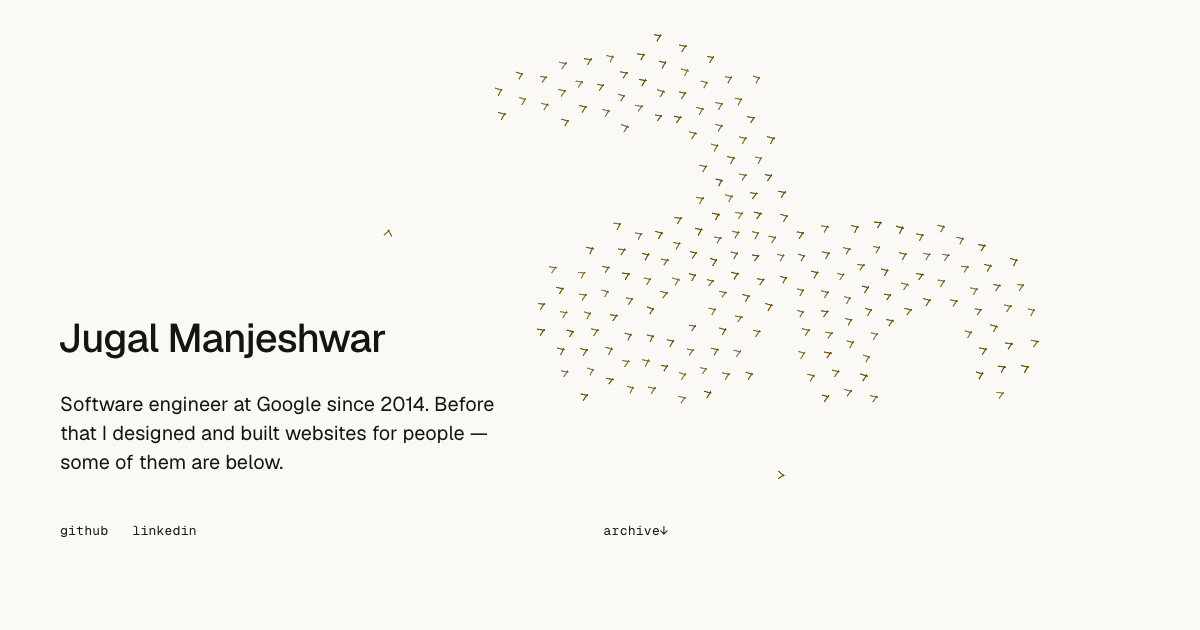
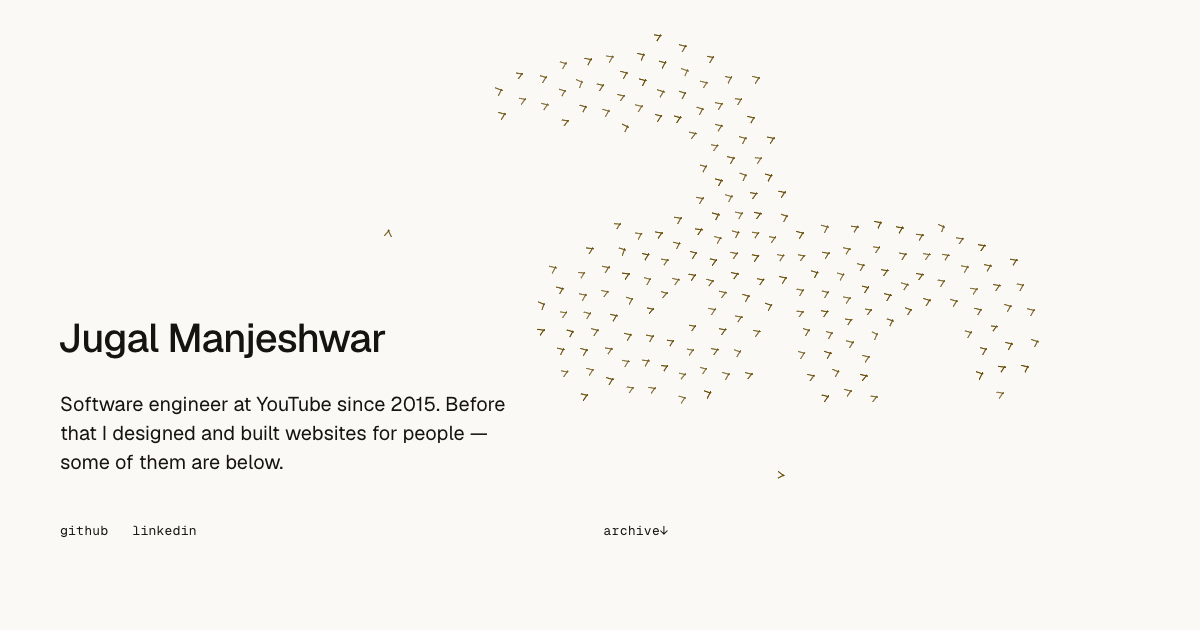
A roost, not a shimmer; and the hero says YouTube
Idle birds flickered. Two mistakes, both from the flight commit: the home state
carried a permanent floor of 0.30 stroke depth, and frequency got a +3.2 Hz
boost that rose as speed fell — my theory that holding station is work. Together
that beat at 7.2 Hz, a full wingbeat every 8.3 frames, on 183 birds at once and
never varying: wing tips travelling 1.29 px a frame on a bird whose entire
half-span is 5.2 px, with only 2.5% of frames anywhere near still. Uniform and
relentless is a shimmer, not a flock.

A settled bird now HOLDS its wings and gives a short burst of a few beats every
few seconds, each on its own clock — period from its opacity, offset from its
phase, so no two birds beat together and it costs no random numbers and no new
array. Median tip travel 1.21 → 0.13 px/frame, near-still frames 2.5% → 57%,
and stroke depth now actually varies (0.02 held, 0.63 flapping) instead of
sitting flat at 0.29. beatSlow drops 2.6 → 1.1 Hz so a held wing — between
flaps, or gliding a straight — is genuinely at rest rather than ticking over.

The smoothing on `drive` makes each burst a swell rather than a switch, and the
beat phase still never resets, so a bird startled mid-hold picks the stroke up
wherever the wing already was. Drift was already relaxed (4.3 px/s, 8 °/s of
heading sway) and is untouched, as are the dynamics.

flight.mjs gains a `repose` check, two-sided on purpose: the median proves they
[…]

Changed region(s): [[0.2158, 0.6032, 0.4317, 0.6635]]

diff --git a/index.html b/index.html
@@ -32,14 +32,14 @@
 -->
 <meta name="viewport" content="width=device-width, initial-scale=1, viewport-fit=cover">
 <title>Jugal Manjeshwar</title>
-<meta name="description" content="Software engineer at Google since 2014. Before that I designed and built websites for people — an archive of them lives here.">
+<meta name="description" content="Software engineer at YouTube since 2015. Before that I designed and built websites for people — an archive of them lives here.">
 <meta name="color-scheme" content="light dark">
 <meta name="theme-color" media="(prefers-color-scheme: light)" content="#faf9f6">
 <meta name="theme-color" media="(prefers-color-scheme: dark)" content="#111113">
 <link rel="icon" href="img/mark.svg" type="image/svg+xml">
 <link rel="canonical" href="https://nuterian.github.io/">
 <meta property="og:title" content="Jugal Manjeshwar">
-<meta property="og:description" content="Software engineer at Google. An archive of the websites I designed before that.">
+<meta property="og:description" content="Software engineer at YouTube. An archive of the websites I designed before that.">
 <meta property="og:url" content="https://nuterian.github.io/">
 <meta property="og:image" content="https://nuterian.github.io/img/og.png">
 <meta property="og:image:width" content="1200">
@@ -64,13 +64,13 @@
 <canvas id="flock" aria-hidden="true"></canvas>
 <!-- Without script, a still of a seeded flock so the page is never blank. -->
 <!--STILL-->
-<svg class="still" viewBox="0 0 1620 1080" preserveAspectRatio="xMidYMid meet" aria-hidden="true" focusable="false"><polyline points="729.7,482.0 731.3,477.3 726.3,477.4" opacity="0.75"/><polyline points="744.8,322.1 748.8,325.0 751.8,321.1" opacity="0.95"/><polyline points="833.1,484.3 829.3,481.0 827.3,485.7" opacity="0.94"/><polyline points="1069.9,604.3 1074.2,601.3 1070.7,597.5" opacity="0.92"/><polyline points="771.2,285.4 768.5,281.3 764.3,284.0" opacity="0.85"/><polyline points="1050.2,483.4 1045.2,483.9 1045.8,488.9" opacity="0.78"/><polyline points="932.7,527.1 930.7,522.3 926.2,524.9" opacity="0.71"/><polyline points="814.0,603.8 810.4,607.1 814.8,609.3" opacity="0.83"/><polyline points="813.7,527.6 814.8,522.6 809.6,522.2" opacity="0.85"/><polyline points="985.6,471.1 988.9,467.1 984.5,464.3" opacity="0.93"/><polyline points="696.1,578.8 692.6,581.6 696.8,583.3" opacity="0.81"/><polyline points="892.2,580.1 889.6,584.5 894.2,586.7" opacity="0.71"/><polyline points="734.4,604.4 729.6,602.4 728.9,607.6" opacity="0.91"/><polyline points="787.6,522.7 792.4,524.8 793.7,519.8" opacity="0.74"/><polyline points="647.2,602.0 651.6,600.8 648.5,597.5" opacity="0.69"/><polyline points="916.2,478.7 911.5,479.9 912.6,484.7" opacity="0.83"/><polyline points="1068.6,509.3 1069.9,505.0 1065.8,503.1" opacity="0.82"/><polyline points="611.8,581.8 616.4,580.5 615.5,575.8" opacity="0.78"/><polyline points="976.5,518.1 975.4,522.9 980.3,522.1" opacity="0.91"/><polyline points="677.0,319.0 673.3,321.8 677.5,323.9" opacity="0.68"/><polyline points="807.0,503.0 810.3,506.7 812.8,502.4" opacity="0.93"/><polyline points="815.4,447.5 812.9,443.0 808.7,446.0" opacity="0.70"/><polyline points="718.0,474.0 714.4,476.9 718.6,478.6" opacity="0.94"/><polyline points="792.5,320.0 792.7,325.1 797.7,324.7" opacity="0.74"/><polyline points="889.8,497.9 892.4,502.0 896.7,499.7" opacity="0.88"/><polyline points="1088.6,607.3 1089.4,602.3 1084.4,601.8" opacity="0.95"/><polyline points="793.4,539.5 796.6,543.6 800.5,540.3" opacity="0.69"/><polyline points="697.9,524.1 695.3,520.4 693.0,524.4" opacity="0.75"/><polyline points="812.5,580.6 812.1,585.4 816.9,586.1" opacity="0.72"/><polyline points="675.4,543.5 671.6,539.9 668.4,544.1" opacity="0.88"/><polyline points="1094.4,584.1 1089.5,582.6 1089.1,587.8" opacity="0.90"/><polyline points="1027.1,503.0 1031.9,502.9 1030.1,498.4" opacity="0.77"/><polyline points="733.1,504.3 733.0,499.7 728.9,501.7" opacity="0.79"/><polyline points="830.9,457.9 831.0,463.0 836.0,462.8" opacity="0.76"/><polyline points="718.5,522.5 714.1,519.9 711.6,524.3" opacity="0.91"/><polyline points="800.1,461.3 795.5,462.6 796.4,467.2" opacity="0.72"/><polyline points="795.3,607.3 796.3,602.2 791.1,602.6" opacity="0.74"/><polyline points="916.9,617.9 912.2,619.5 913.7,624.2" opacity="0.93"/><polyline points="1110.3,601.9 1106.4,604.7 1110.5,607.2" opacity="0.95"/><polyline points="566.6,304.3 571.0,303.4 570.7,299.0" opacity="0.80"/><polyline points="1109.8,519.3 1107.0,523.7 1111.6,526.0" opacity="0.76"/><polyline points="946.6,520.1 947.4,525.1 952.4,524.3" opacity="0.92"/><polyline points="755.8,621.0 751.3,622.3 752.3,626.9" opacity="0.69"/><polyline points="773.8,324.4 770.6,321.2 767.0,323.9" opacity="0.74"/><polyline points="894.2,561.0 889.6,563.3 892.2,567.7" opacity="0.78"/><polyline points="752.8,607.6 747.8,606.6 748.2,611.7" opacity="0.71"/><polyline points="950.2,586.3 946.8,583.3 943.3,586.3" opacity="0.76"/><polyline points="922.8,485.1 927.5,483.1 924.1,479.3" opacity="0.74"/><polyline points="1068.5,541.4 1068.9,546.5 1074.0,545.7" opacity="0.81"/><polyline points="997.0,526.2 993.9,522.9 992.7,527.2" opacity="0.84"/><polyline points="950.9,554.7 950.0,559.8 955.2,559.9" opacity="0.71"/><polyline points="889.2,488.4 889.7,483.2 884.5,483.7" opacity="0.80"/><polyline points="716.5,465.5 712.7,462.0 709.5,466.1" opacity="0.73"/><polyline points="712.0,329.8 710.7,325.2 706.0,326.1" opacity="0.71"/><polyline points="764.3,570.5 767.0,566.9 762.5,566.3" opacity="0.84"/><polyline points="791.8,485.3 793.8,481.1 789.9,478.7" opacity="0.93"/><polyline points="932.5,621.6 928.0,620.0 926.0,624.4" opacity="0.77"/><polyline points="745.6,585.3 750.2,583.6 746.9,580.0" opacity="0.72"/><polyline points="633.8,586.1 635.3,581.9 630.8,582.4" opacity="0.84"/><polyline points="856.2,476.8 852.3,479.5 854.6,483.6" opacity="0.71"/><polyline points="950.6,604.9 948.4,600.9 944.1,602.4" opacity="0.93"/><polyline points="653.6,305.5 649.1,307.7 651.5,312.2" opacity="0.70"/><polyline points="700.1,622.9 695.6,622.9 697.7,626.9" opacity="0.72"/><polyline points="664.1,528.2 667.2,525.0 662.9,523.7" opacity="0.72"/><polyline points="591.0,288.0 591.1,283.4 586.6,282.6" opacity="0.83"/><polyline points="762.8,508.2 767.3,505.6 764.1,501.6" opacity="0.90"/><polyline points="466.6,493.6 461.4,493.4 463.1,498.3" opacity="0.86"/><polyline points="1032.1,526.9 1027.6,527.2 1027.2,531.7" opacity="0.85"/><polyline points="1030.9,475.3 1029.6,480.3 1034.8,480.8" opacity="0.74"/><polyline points="694.2,308.0 694.6,303.6 690.4,305.3" opacity="0.79"/><polyline points="751.6,262.5 747.7,265.9 751.7,269.1" opacity="0.83"/><polyline points="668.7,495.4 670.5,500.1 675.2,498.1" opacity="0.79"/><polyline points="834.7,359.4 832.2,363.9 837.2,365.0" opacity="0.86"/><polyline points="650.5,286.2 653.3,282.0 649.1,279.2" opacity="0.83"/><polyline points="1095.2,500.9 1091.1,502.7 1094.7,505.4" opacity="0.87"/><polyline points="667.2,599.9 671.3,601.6 670.8,597.1" opacity="0.89"/><polyline points="815.8,324.0 810.7,323.5 812.0,328.4" opacity="0.76"/><polyline points="954.2,621.6 949.7,618.8 947.6,623.6" opacity="0.75"/><polyline points="732.8,586.5 730.4,582.1 727.1,585.9" opacity="0.87"/><polyline points="772.2,625.2 769.0,622.1 765.5,624.9" opacity="0.95"/><polyline points="734.2,464.1 729.8,463.2 728.1,467.4" opacity="0.90"/><polyline points="619.4,539.9 614.7,540.7 617.4,544.6" opacity="0.83"/><polyline points="689.5,598.9 691.7,602.8 695.9,601.1" opacity="0.70"/><polyline points="658.1,502.9 654.0,500.3 651.0,504.2" opacity="0.70"/><polyline points="752.6,297.1 749.9,301.0 753.6,303.9" opacity="0.83"/><polyline points="1051.2,526.4 1048.1,522.9 1044.4,525.8" opacity="0.78"/><polyline points="749.6,507.8 749.7,503.3 745.6,505.3" opacity="0.71"/><polyline points="948.5,502.0 945.3,506.1 949.7,508.8" opacity="0.79"/><polyline points="949.7,468.7 945.3,467.8 946.6,472.1" opacity="0.84"/><polyline points="709.0,501.6 713.5,499.7 710.0,496.3" opacity="0.72"/><polyline points="1087.3,542.8 1091.7,543.6 1093.1,539.4" opacity="0.78"/><polyline points="972.2,479.5 970.6,484.1 975.2,485.8" opacity="0.75"/><polyline points="801.3,584.2 796.6,582.2 794.9,587.0" opacity="0.80"/><polyline points="1068.3,530.0 1071.3,526.2 1067.5,523.1" opacity="0.71"/><polyline points="1074.5,560.3 1071.7,564.6 1076.5,566.5" opacity="0.75"/><polyline points="697.1,501.4 692.1,501.5 693.9,506.1" opacity="0.93"/><polyline points="807.9,339.8 810.9,343.4 812.8,339.1" opacity="0.87"/><polyline points="755.0,282.3 750.3,283.2 753.1,287.1" opacity="0.70"/><polyline points="823.9,406.6 828.9,407.9 829.8,402.8" opacity="0.94"/><polyline points="1098.2,620.2 1093.2,620.9 1095.6,625.3" opacity="0.69"/><polyline points="766.6,464.1 770.2,461.5 766.2,459.5" opacity="0.92"/><polyline points="672.5,309.4 668.7,306.3 667.4,311.0" opacity="0.81"/><polyline points="789.6,342.1 791.6,346.9 796.1,344.5" opacity="0.76"/><polyline points="655.9,619.7 652.2,622.5 656.5,624.4" opacity="0.93"/><polyline points="635.6,546.5 634.3,541.7 630.3,544.5" opacity="0.69"/><polyline points="743.0,479.6 747.6,480.8 746.6,476.2" opacity="0.76"/><polyline points="672.7,554.7 669.7,558.4 672.9,562.0" opacity="0.86"/><polyline points="639.2,304.0 634.3,302.1 633.1,307.1" opacity="0.74"/><polyline points="675.0,281.5 670.5,281.4 669.7,285.8" opacity="0.69"/><polyline points="631.3,563.7 634.8,560.7 630.7,558.6" opacity="0.95"/><polyline points="797.8,300.9 793.3,301.6 796.0,305.2" opacity="0.76"/><polyline points="941.3,542.3 945.0,545.6 946.7,541.0" opacity="0.81"/><polyline points="651.9,540.6 649.7,545.1 654.3,547.1" opacity="0.72"/><polyline points="844.8,463.0 846.8,467.0 851.2,465.9" opacity="0.77"/><polyline points="807.6,389.6 810.6,385.4 805.7,383.7" opacity="0.84"/><polyline points="1047.9,508.1 1050.1,503.6 1045.2,503.1" opacity="0.71"/><polyline points="692.0,466.2 692.9,461.1 687.8,460.8" opacity="0.77"/><polyline points="631.3,322.9 635.8,322.3 635.8,317.8" opacity="0.84"/><polyline points="893.7,526.3 889.3,525.2 890.6,529.6" opacity="0.75"/><polyline points="646.7,569.1 648.6,564.3 643.6,562.9" opacity="0.77"/><polyline points="649.1,523.2 653.1,520.4 650.6,516.2" opacity="0.73"/><polyline points="790.8,441.0 791.8,445.9 796.7,445.0" opacity="0.95"/><polyline points="811.2,400.7 815.0,404.1 818.4,400.4" opacity="0.76"/><polyline points="999.4,479.6 994.7,479.6 996.9,483.7" opacity="0.80"/><polyline points="738.8,321.6 734.0,320.4 734.7,325.3" opacity="0.87"/><polyline points="717.2,579.5 712.3,581.3 714.9,585.8" opacity="0.82"/><polyline points="726.8,279.7 728.5,284.6 733.0,281.9" opacity="0.88"/><polyline points="798.7,567.8 796.3,563.4 793.2,567.3" opacity="0.86"/><polyline points="594.5,300.9 590.6,303.2 594.5,305.6" opacity="0.71"/><polyline points="797.1,502.2 793.9,505.5 798.3,506.7" opacity="0.79"/><polyline points="794.1,407.3 796.6,402.9 791.6,401.8" opacity="0.94"/><polyline points="1106.7,579.4 1110.4,582.0 1113.5,578.7" opacity="0.78"/><polyline points="1070.8,478.5 1071.3,483.1 1076.0,483.1" opacity="0.94"/><polyline points="809.5,423.1 810.3,427.9 814.6,425.6" opacity="0.70"/><polyline points="1005.5,504.6 1008.7,507.7 1012.4,505.2" opacity="0.87"/><polyline points="910.2,548.1 908.2,544.0 903.9,545.6" opacity="0.89"/><polyline points="616.1,326.8 612.8,323.6 611.6,328.0" opacity="0.71"/><polyline points="733.0,265.8 728.4,264.8 729.3,269.4" opacity="0.93"/><polyline points="912.7,559.5 909.9,563.3 913.5,566.4" opacity="0.74"/><polyline points="772.0,606.2 768.8,602.2 765.8,606.4" opacity="0.70"/><polyline points="714.2,627.9 710.1,625.4 709.6,630.1" opacity="0.73"/><polyline points="809.1,548.2 812.6,545.3 810.1,541.5" opacity="0.74"/><polyline points="771.8,484.1 767.3,481.8 766.7,486.8" opacity="0.87"/><polyline points="1092.4,565.9 1087.3,566.5 1088.5,571.5" opacity="0.86"/><polyline points="1110.0,548.2 1106.7,544.6 1103.1,548.0" opacity="0.74"/><polyline points="653.5,471.8 651.7,476.3 656.6,476.0" opacity="0.86"/><polyline points="795.2,424.9 791.9,428.0 796.2,429.4" opacity="0.76"/><polyline points="854.8,447.3 850.4,444.6 848.1,449.2" opacity="0.84"/><polyline points="794.9,366.5 796.6,362.1 791.9,362.4" opacity="0.73"/><polyline points="694.9,327.4 695.3,322.7 690.9,324.5" opacity="0.80"/><polyline points="808.3,488.1 810.4,483.3 805.2,482.4" opacity="0.79"/><polyline points="989.5,507.4 993.2,503.9 989.6,500.4" opacity="0.74"/><polyline points="973.4,497.7 973.5,502.8 978.6,502.4" opacity="0.90"/><polyline points="620.8,283.1 616.3,283.2 618.5,287.1" opacity="0.78"/><polyline points="890.7,458.5 892.2,462.7 895.3,459.5" opacity="0.76"/><polyline points="799.0,384.5 794.1,386.0 796.0,390.7" opacity="0.78"/><polyline points="859.9,509.3 864.6,507.1 861.4,503.0" opacity="0.87"/><polyline points="1010.8,531.9 1009.7,526.9 1004.8,528.3" opacity="0.84"/><polyline points="852.2,427.7 847.0,427.5 848.2,432.6" opacity="0.91"/><polyline points="732.9,308.5 730.5,304.7 728.3,308.6" opacity="0.78"/><polyline points="655.4,324.2 650.7,326.1 652.9,330.7" opacity="0.83"/><polyline points="815.2,468.5 810.4,467.5 809.2,472.2" opacity="0.77"/><polyline points="893.2,604.4 893.5,599.8 889.3,601.6" opacity="0.81"/><polyline points="1032.8,467.0 1027.8,466.6 1029.3,471.4" opacity="0.79"/><polyline points="914.7,526.4 912.3,521.8 908.0,524.6" opacity="0.76"/><polyline points="917.0,577.5 912.5,580.0 915.9,583.9" opacity="0.89"/><polyline points="827.6,571.0 828.6,565.9 823.4,565.8" opacity="0.76"/><polyline points="629.9,530.2 630.2,525.3 625.5,526.8" opacity="0.89"/><polyline points="872.2,466.8 869.7,462.7 865.5,464.9" opacity="0.90"/><polyline points="712.4,286.5 712.5,281.3 707.5,282.5" opacity="0.89"/><polyline points="556.7,320.0 552.4,321.2 552.8,325.7" opacity="0.81"/><polyline points="699.4,279.4 695.3,282.4 699.0,286.0" opacity="0.84"/><polyline points="711.2,597.6 710.7,602.3 715.1,600.7" opacity="0.74"/><polyline points="709.7,298.7 710.5,303.8 715.2,301.7" opacity="0.94"/><polyline points="652.6,589.1 649.4,585.6 645.7,588.5" opacity="0.85"/><polyline points="769.5,349.0 765.9,345.6 764.1,350.2" opacity="0.77"/><polyline points="834.4,543.9 829.4,544.3 831.5,548.9" opacity="0.87"/><polyline points="930.8,577.1 927.7,581.2 932.6,582.9" opacity="0.76"/><polyline points="1007.6,462.5 1012.0,463.6 1011.2,459.2" opacity="0.80"/><polyline points="832.8,444.8 828.6,446.6 829.8,450.9" opacity="0.94"/><polyline points="616.5,566.0 612.2,564.8 613.1,569.2" opacity="0.94"/><polyline points="907.6,599.0 907.8,604.1 912.6,602.3" opacity="0.78"/><polyline points="966.0,468.4 970.3,467.1 967.2,463.9" opacity="0.93"/><polyline points="634.2,600.2 630.7,603.4 633.7,607.1" opacity="0.69"/><polyline points="827.0,384.3 832.1,384.5 832.0,379.4" opacity="0.69"/><polyline points="765.3,299.8 765.7,304.3 770.3,304.4" opacity="0.70"/><polyline points="813.6,306.8 813.7,301.6 808.6,302.3" opacity="0.78"/><polyline points="909.9,498.3 911.5,503.2 916.1,500.9" opacity="0.70"/><polyline points="691.2,473.0 694.5,476.1 698.0,473.3" opacity="0.82"/><polyline points="1088.8,528.1 1088.7,523.6 1084.8,525.9" opacity="0.81"/><polyline points="832.2,431.6 828.5,428.0 825.7,432.3" opacity="0.86"/><polyline points="934.3,541.0 929.6,540.6 928.9,545.2" opacity="0.81"/><polyline points="1068.6,586.1 1071.3,582.5 1066.9,581.9" opacity="0.87"/><polyline points="815.7,367.4 815.4,362.8 810.8,362.7" opacity="0.76"/><polyline points="751.3,462.4 747.6,465.0 749.9,469.0" opacity="0.82"/><polyline points="634.4,290.4 632.1,286.6 629.8,290.4" opacity="0.71"/><polyline points="1227.5,487.5 1228.1,482.4 1223.0,482.9" opacity="0.76"/><polyline points="635.1,502.2 631.6,504.9 633.8,508.8" opacity="0.72"/><polyline points="1006.7,481.2 1011.2,479.1 1007.6,475.7" opacity="0.69"/><polyline points="670.4,586.1 671.5,581.1 666.4,581.7" opacity="0.76"/></svg>
+<svg class="still" viewBox="0 0 1620 1080" preserveAspectRatio="xMidYMid meet" aria-hidden="true" focusable="false"><polyline points="730.0,482.3 731.3,477.3 726.1,477.1" opacity="0.75"/><polyline points="745.6,321.3 748.8,325.0 750.8,320.6" opacity="0.95"/><polyline points="832.8,484.4 829.3,481.0 827.7,485.6" opacity="0.94"/><polyline points="1070.0,603.3 1074.2,601.3 1070.5,598.5" opacity="0.92"/><polyline points="770.9,285.6 768.5,281.3 764.6,284.4" opacity="0.85"/><polyline points="1050.0,484.5 1045.2,483.9 1046.8,488.5" opacity="0.78"/><polyline points="932.5,526.8 930.7,522.3 926.5,524.8" opacity="0.71"/><polyline points="814.1,603.7 810.4,607.1 814.9,609.4" opacity="0.83"/><polyline points="813.1,527.3 814.8,522.6 809.8,523.0" opacity="0.85"/><polyline points="985.2,470.7 988.9,467.1 984.2,464.9" opacity="0.93"/><polyline points="695.1,577.5 692.6,581.6 696.2,584.9" opacity="0.81"/><polyline points="892.6,580.3 889.6,584.5 894.4,586.3" opacity="0.71"/><polyline points="734.3,604.6 729.6,602.4 729.1,607.6" opacity="0.91"/><polyline points="787.9,523.0 792.4,524.8 793.8,520.1" opacity="0.74"/><polyline points="646.7,602.5 651.6,600.8 648.3,596.8" opacity="0.69"/><polyline points="916.5,479.7 911.5,479.9 913.7,484.4" opacity="0.83"/><polyline points="1067.4,509.2 1069.9,505.0 1065.0,504.0" opacity="0.82"/><polyline points="611.3,581.1 616.4,580.5 614.7,575.7" opacity="0.78"/><polyline points="976.2,517.8 975.4,522.9 980.6,522.4" opacity="0.91"/><polyline points="677.0,318.3 673.3,321.8 677.7,324.6" opacity="0.68"/><polyline points="806.7,503.4 810.3,506.7 813.2,502.8" opacity="0.93"/><polyline points="815.2,447.4 812.9,443.0 808.9,446.1" opacity="0.70"/><polyline points="718.2,473.6 714.4,476.9 719.0,479.0" opacity="0.94"/><polyline points="792.8,320.1 792.7,325.1 797.6,324.4" opacity="0.74"/><polyline points="890.2,497.5 892.4,502.0 896.5,499.1" opacity="0.88"/><polyline points="1087.8,607.2 1089.4,602.3 1084.3,602.6" opacity="0.95"/><polyline points="793.7,539.4 796.6,543.6 800.2,540.2" opacity="0.69"/><polyline points="698.6,524.3 695.3,520.4 692.3,524.7" opacity="0.75"/><polyline points="813.5,580.5 812.1,585.4 817.2,585.0" opacity="0.72"/><polyline points="675.1,543.3 671.6,539.9 668.6,543.9" opacity="0.88"/><polyline points="1094.1,584.5 1089.5,582.6 1089.6,587.6" opacity="0.90"/><polyline points="1026.7,503.5 1031.9,502.9 1030.4,498.0" opacity="0.77"/><polyline points="733.7,504.8 733.0,499.7 728.2,501.4" opacity="0.79"/><polyline points="831.4,457.8 831.0,463.0 836.1,462.3" opacity="0.76"/><polyline points="718.4,521.4 714.1,519.9 711.2,523.3" opacity="0.91"/><polyline points="799.5,461.0 795.5,462.6 795.9,466.8" opacity="0.72"/><polyline points="795.3,607.3 796.3,602.2 791.1,602.7" opacity="0.74"/><polyline points="917.2,618.5 912.2,619.5 914.4,624.2" opacity="0.93"/><polyline points="1110.5,601.8 1106.4,604.7 1110.6,607.4" opacity="0.95"/><polyline points="565.8,303.2 571.0,303.4 569.5,298.5" opacity="0.80"/><polyline points="1110.3,520.0 1107.0,523.7 1111.7,525.1" opacity="0.76"/><polyline points="947.4,520.0 947.4,525.1 952.3,523.5" opacity="0.92"/><polyline points="756.5,621.8 751.3,622.3 753.3,627.1" opacity="0.69"/><polyline points="773.5,325.2 770.6,321.2 767.1,324.7" opacity="0.74"/><polyline points="894.5,561.7 889.6,563.3 892.7,567.3" opacity="0.78"/><polyline points="752.7,607.3 747.8,606.6 747.9,611.5" opacity="0.71"/><polyline points="948.8,586.8 946.8,583.3 944.8,586.8" opacity="0.76"/><polyline points="923.5,485.6 927.5,483.1 924.9,479.1" opacity="0.74"/><polyline points="1069.3,541.7 1068.9,546.5 1073.5,544.9" opacity="0.81"/><polyline points="997.9,526.3 993.9,522.9 991.9,527.8" opacity="0.84"/><polyline points="951.5,556.0 950.0,559.8 954.0,559.0" opacity="0.71"/><polyline points="889.4,488.1 889.7,483.2 884.9,483.6" opacity="0.80"/><polyline points="716.3,465.5 712.7,462.0 709.7,466.0" opacity="0.73"/><polyline points="711.0,330.4 710.7,325.2 706.0,327.2" opacity="0.71"/><polyline points="764.4,571.4 767.0,566.9 762.0,565.7" opacity="0.84"/><polyline points="790.6,485.0 793.8,481.1 789.0,479.7" opacity="0.93"/><polyline points="932.5,622.3 928.0,620.0 926.5,624.8" opacity="0.77"/><polyline points="745.5,585.7 750.2,583.6 747.0,579.6" opacity="0.72"/><polyline points="634.3,586.9 635.3,581.9 630.2,581.7" opacity="0.84"/><polyline points="856.3,477.1 852.3,479.5 854.8,483.5" opacity="0.71"/><polyline points="949.6,605.8 948.4,600.9 944.3,603.8" opacity="0.93"/><polyline points="653.7,305.8 649.1,307.7 651.6,312.0" opacity="0.70"/><polyline points="700.7,622.1 695.6,622.9 697.3,627.8" opacity="0.72"/><polyline points="664.5,529.0 667.2,525.0 662.9,522.8" opacity="0.72"/><polyline points="589.8,288.4 591.1,283.4 585.9,283.7" opacity="0.83"/><polyline points="762.8,507.5 767.3,505.6 763.8,502.2" opacity="0.90"/><polyline points="466.6,493.6 461.4,493.4 463.1,498.3" opacity="0.86"/><polyline points="1032.5,528.2 1027.6,527.2 1028.5,532.2" opacity="0.85"/><polyline points="1030.9,475.5 1029.6,480.3 1034.6,480.7" opacity="0.74"/><polyline points="694.4,308.7 694.6,303.6 689.8,305.2" opacity="0.79"/><polyline points="751.8,262.7 747.7,265.9 751.9,268.9" opacity="0.83"/><polyline points="669.3,495.1 670.5,500.1 674.9,497.5" opacity="0.79"/><polyline points="834.4,359.4 832.2,363.9 837.0,365.2" opacity="0.86"/><polyline points="650.3,285.9 653.3,282.0 649.0,279.5" opacity="0.83"/><polyline points="1095.6,500.4 1091.1,502.7 1095.0,506.0" opacity="0.87"/><polyline points="667.1,599.9 671.3,601.6 670.9,597.1" opacity="0.89"/><polyline points="815.6,323.6 810.7,323.5 811.5,328.3" opacity="0.76"/><polyline points="953.9,621.4 949.7,618.8 947.7,623.3" opacity="0.75"/><polyline points="732.9,586.7 730.4,582.1 726.9,586.0" opacity="0.87"/><polyline points="771.7,626.4 769.0,622.1 765.9,626.2" opacity="0.95"/><polyline points="734.4,464.8 729.8,463.2 728.6,467.9" opacity="0.90"/><polyline points="619.7,539.8 614.7,540.7 617.5,544.9" opacity="0.83"/><polyline points="690.3,597.8 691.7,602.8 695.9,599.8" opacity="0.70"/><polyline points="657.4,503.7 654.0,500.3 651.9,504.7" opacity="0.70"/><polyline points="753.1,297.3 749.9,301.0 754.1,303.5" opacity="0.83"/><polyline points="1050.9,527.3 1048.1,522.9 1044.5,526.7" opacity="0.78"/><polyline points="750.2,508.4 749.7,503.3 744.8,505.0" opacity="0.71"/><polyline points="949.0,502.6 945.3,506.1 949.9,508.0" opacity="0.79"/><polyline points="950.5,467.9 945.3,467.8 945.9,472.9" opacity="0.84"/><polyline points="710.9,502.7 713.5,499.7 712.2,495.9" opacity="0.72"/><polyline points="1087.1,542.2 1091.7,543.6 1092.8,538.9" opacity="0.78"/><polyline points="973.2,479.6 970.6,484.1 975.7,485.0" opacity="0.75"/><polyline points="801.1,584.5 796.6,582.2 795.3,587.1" opacity="0.80"/><polyline points="1067.9,529.7 1071.3,526.2 1067.2,523.5" opacity="0.71"/><polyline points="1074.7,560.4 1071.7,564.6 1076.6,566.3" opacity="0.75"/><polyline points="697.1,501.5 692.1,501.5 694.1,506.0" opacity="0.93"/><polyline points="807.3,339.6 810.9,343.4 813.3,338.8" opacity="0.87"/><polyline points="754.7,282.4 750.3,283.2 752.9,286.8" opacity="0.70"/><polyline points="824.5,405.9 828.9,407.9 829.0,403.0" opacity="0.94"/><polyline points="1098.0,619.7 1093.2,620.9 1095.2,625.4" opacity="0.69"/><polyline points="766.3,464.5 770.2,461.5 765.9,459.2" opacity="0.92"/><polyline points="672.6,309.5 668.7,306.3 667.4,311.1" opacity="0.81"/><polyline points="789.8,342.3 791.6,346.9 795.9,344.4" opacity="0.76"/><polyline points="655.7,618.9 652.2,622.5 656.5,625.2" opacity="0.93"/><polyline points="635.7,546.7 634.3,541.7 630.1,544.6" opacity="0.69"/><polyline points="742.5,480.1 747.6,480.8 747.1,475.7" opacity="0.76"/><polyline points="673.3,555.3 669.7,558.4 673.5,561.3" opacity="0.86"/><polyline points="638.9,304.0 634.3,302.1 633.3,307.0" opacity="0.74"/><polyline points="675.6,282.6 670.5,281.4 670.6,286.6" opacity="0.69"/><polyline points="631.3,564.4 634.8,560.7 630.4,557.9" opacity="0.95"/><polyline points="798.1,300.1 793.3,301.6 795.7,306.0" opacity="0.76"/><polyline points="941.0,542.7 945.0,545.6 947.1,541.2" opacity="0.81"/><polyline points="652.5,540.8 649.7,545.1 654.6,546.6" opacity="0.72"/><polyline points="845.6,461.9 846.8,467.0 851.5,464.7" opacity="0.77"/><polyline points="807.5,389.5 810.6,385.4 805.6,383.8" opacity="0.84"/><polyline points="1048.7,508.1 1050.1,503.6 1045.5,502.4" opacity="0.71"/><polyline points="691.9,466.0 692.9,461.1 687.9,460.9" opacity="0.77"/><polyline points="630.6,321.9 635.8,322.3 634.7,317.2" opacity="0.84"/><polyline points="894.5,525.9 889.3,525.2 890.2,530.4" opacity="0.75"/><polyline points="646.3,568.8 648.6,564.3 643.6,563.4" opacity="0.77"/><polyline points="648.4,522.3 653.1,520.4 649.6,516.7" opacity="0.73"/><polyline points="791.2,440.9 791.8,445.9 796.6,444.6" opacity="0.95"/><polyline points="811.5,400.4 815.0,404.1 818.1,400.0" opacity="0.76"/><polyline points="999.9,479.3 994.7,479.6 996.8,484.3" opacity="0.80"/><polyline points="738.8,321.0 734.0,320.4 734.1,325.3" opacity="0.87"/><polyline points="717.1,580.3 712.3,581.3 715.3,585.2" opacity="0.82"/><polyline points="726.8,280.0 728.5,284.6 732.8,282.1" opacity="0.88"/><polyline points="799.0,567.9 796.3,563.4 792.9,567.4" opacity="0.86"/><polyline points="594.7,300.1 590.6,303.2 594.6,306.4" opacity="0.71"/><polyline points="796.9,501.4 793.9,505.5 798.5,507.5" opacity="0.79"/><polyline points="794.0,407.4 796.6,402.9 791.5,401.8" opacity="0.94"/><polyline points="1106.9,578.6 1110.4,582.0 1113.2,578.0" opacity="0.78"/><polyline points="1071.5,478.1 1071.3,483.1 1076.3,482.4" opacity="0.94"/><polyline points="809.4,422.8 810.3,427.9 814.9,425.6" opacity="0.70"/><polyline points="1006.1,503.3 1008.7,507.7 1012.0,503.8" opacity="0.87"/><polyline points="909.1,549.0 908.2,544.0 904.1,546.9" opacity="0.89"/><polyline points="616.6,327.0 612.8,323.6 611.3,328.4" opacity="0.71"/><polyline points="733.3,265.2 728.4,264.8 728.7,269.7" opacity="0.93"/><polyline points="913.8,560.2 909.9,563.3 914.3,565.5" opacity="0.74"/><polyline points="772.1,606.1 768.8,602.2 765.7,606.3" opacity="0.70"/><polyline points="714.8,627.4 710.1,625.4 708.8,630.3" opacity="0.73"/><polyline points="808.0,547.4 812.6,545.3 808.8,541.9" opacity="0.74"/><polyline points="771.8,484.2 767.3,481.8 766.8,486.8" opacity="0.87"/><polyline points="1092.4,566.4 1087.3,566.5 1088.9,571.4" opacity="0.86"/><polyline points="1109.1,548.8 1106.7,544.6 1104.0,548.7" opacity="0.74"/><polyline points="653.3,471.4 651.7,476.3 656.9,476.3" opacity="0.86"/><polyline points="795.2,424.0 791.9,428.0 796.5,430.3" opacity="0.76"/><polyline points="854.5,447.8 850.4,444.6 848.7,449.5" opacity="0.84"/><polyline points="795.0,367.0 796.6,362.1 791.4,362.0" opacity="0.73"/><polyline points="695.5,327.8 695.3,322.7 690.3,324.0" opacity="0.80"/><polyline points="808.1,488.0 810.4,483.3 805.2,482.6" opacity="0.79"/><polyline points="989.1,506.5 993.2,503.9 989.2,501.3" opacity="0.74"/><polyline points="974.2,497.7 973.5,502.8 978.5,501.6" opacity="0.90"/><polyline points="621.2,282.9 616.3,283.2 618.6,287.5" opacity="0.78"/><polyline points="889.8,458.3 892.2,462.7 896.2,459.7" opacity="0.76"/><polyline points="799.2,385.0 794.1,386.0 796.5,390.5" opacity="0.78"/><polyline points="859.9,509.2 864.6,507.1 861.3,503.1" opacity="0.87"/><polyline points="1010.2,532.1 1009.7,526.9 1004.9,528.9" opacity="0.84"/><polyline points="852.1,428.0 847.0,427.5 848.5,432.4" opacity="0.91"/><polyline points="733.7,308.8 730.5,304.7 727.4,308.9" opacity="0.78"/><polyline points="655.7,324.7 650.7,326.1 653.5,330.5" opacity="0.83"/><polyline points="814.8,469.7 810.4,467.5 810.4,472.3" opacity="0.77"/><polyline points="893.7,605.0 893.5,599.8 888.6,601.4" opacity="0.81"/><polyline points="1033.0,466.8 1027.8,466.6 1029.1,471.6" opacity="0.79"/><polyline points="914.1,526.7 912.3,521.8 908.3,525.1" opacity="0.76"/><polyline points="917.1,577.7 912.5,580.0 916.0,583.8" opacity="0.89"/><polyline points="827.0,570.6 828.6,565.9 823.6,566.5" opacity="0.76"/><polyline points="630.0,530.4 630.2,525.3 625.3,526.8" opacity="0.89"/><polyline points="870.5,466.5 869.7,462.7 867.0,465.5" opacity="0.90"/><polyline points="712.7,286.2 712.5,281.3 707.7,282.2" opacity="0.89"/><polyline points="557.6,321.0 552.4,321.2 554.0,326.1" opacity="0.81"/><polyline points="699.2,279.5 695.3,282.4 698.8,285.8" opacity="0.84"/><polyline points="711.0,597.2 710.7,602.3 715.6,600.8" opacity="0.74"/><polyline points="709.8,298.6 710.5,303.8 715.2,301.6" opacity="0.94"/><polyline points="652.7,587.9 649.4,585.6 645.8,587.4" opacity="0.85"/><polyline points="769.8,349.0 765.9,345.6 763.9,350.4" opacity="0.77"/><polyline points="834.2,543.4 829.4,544.3 831.0,548.9" opacity="0.87"/><polyline points="930.6,577.0 927.7,581.2 932.4,583.1" opacity="0.76"/><polyline points="1006.9,463.9 1012.0,463.6 1012.6,458.6" opacity="0.80"/><polyline points="833.5,445.5 828.6,446.6 830.7,451.2" opacity="0.94"/><polyline points="617.3,565.7 612.2,564.8 612.7,569.9" opacity="0.94"/><polyline points="907.6,598.9 907.8,604.1 912.7,602.3" opacity="0.78"/><polyline points="965.5,469.1 970.3,467.1 967.0,463.1" opacity="0.93"/><polyline points="635.1,600.9 630.7,603.4 634.7,606.5" opacity="0.69"/><polyline points="827.0,383.9 832.1,384.5 831.6,379.4" opacity="0.69"/><polyline points="766.0,299.4 765.7,304.3 770.6,303.7" opacity="0.70"/><polyline points="812.9,305.8 813.7,301.6 809.7,303.0" opacity="0.78"/><polyline points="910.7,498.7 911.5,503.2 915.3,500.6" opacity="0.70"/><polyline points="692.0,471.9 694.5,476.1 697.3,472.0" opacity="0.82"/><polyline points="1088.7,527.7 1088.7,523.6 1085.3,525.8" opacity="0.81"/><polyline points="831.9,431.8 828.5,428.0 826.1,432.5" opacity="0.86"/><polyline points="934.7,541.6 929.6,540.6 929.4,545.8" opacity="0.81"/><polyline points="1068.4,586.5 1071.3,582.5 1066.5,581.7" opacity="0.87"/><polyline points="815.1,367.7 815.4,362.8 810.5,363.3" opacity="0.76"/><polyline points="752.3,462.8 747.6,465.0 751.0,469.0" opacity="0.82"/><polyline points="635.3,290.4 632.1,286.6 628.9,290.3" opacity="0.71"/><polyline points="1226.9,486.9 1228.1,482.4 1223.5,483.5" opacity="0.76"/><polyline points="636.0,502.5 631.6,504.9 634.8,508.8" opacity="0.72"/><polyline points="1006.6,481.3 1011.2,479.1 1007.5,475.6" opacity="0.69"/><polyline points="670.5,586.2 671.5,581.1 666.3,581.5" opacity="0.76"/></svg>
 <!--/STILL-->
 
 <header class="hero" id="top">
   <div class="hero-text" data-obstacle>
     <h1>Jugal Manjeshwar</h1>
-    <p>Software engineer at Google since&nbsp;2014. Before that I&nbsp;designed and built websites for&nbsp;people — some of them are&nbsp;below.</p>
+    <p>Software engineer at YouTube since&nbsp;2015. Before that I&nbsp;designed and built websites for&nbsp;people — some of them are&nbsp;below.</p>
     <ul class="hero-links" aria-label="Elsewhere">
       <li><a href="https://github.com/nuterian" rel="me">GitHub</a></li>
       <li><a href="https://www.linkedin.com/in/jugalm/" rel="me">LinkedIn</a></li>
@@ -252,9 +252,8 @@
 
 <footer class="site-footer">
   <p data-obstacle data-obstacle-wide>
-    <span>Handcrafted by Jugal, <time datetime="2013">2013</time> <span class="arrow" aria-hidden="true">→</span> <time datetime="2026">2026</time></span>
+    <span><time datetime="2013">2013</time> <span class="arrow" aria-hidden="true">→</span> <time datetime="2026">2026</time></span>
     <button class="dot" id="theme-toggle" aria-label="Theme: system. Switch theme." title="Switch theme (t)"></button>
-    <a href="2013/">previous version</a>
   </p>
 </footer>
 

diff --git a/js/flock.js b/js/flock.js
@@ -100,8 +100,12 @@ export const DEFAULTS = {
                       //        (hovering on the mark is 8 px/s): hold, don't chase
   wing: 5.2,          // px — HALF-SPAN at full spread. One number, every bird, every
                       //      speed. Only the beat itself foreshortens it.
-  beatSlow: 2.6,      // Hz — wingbeat held in a glide
+  beatSlow: 1.1,      // Hz — wings HELD: a glide, or a bird settled on the mark.
+                      //      Not zero, so the hold still breathes.
   beatFast: 9.0,      // Hz — …and under full power
+  restFlap: 0.55,     // s — length of the occasional flap a settled bird gives
+  restEvery: 5.3,     // s — mean gap between them, ±2.3 s and personal, so the
+                      //     mark never beats in unison
   bank: 0.22,         // 0–1 — span a fully banked bird loses, seen from above
   fieldSwirl: 0.18,    // 0–1 — how much of the push is redirected to curve past corners
                       // (kept LOW: a strong tangential term is a curl field, and a
@@ -733,16 +737,26 @@ export class Flock {
       let push = (fx[i] * ux + fy[i] * uy) / p.maxForce;
       let thrust = push > 0 ? push : 0; if (thrust > 1) thrust = 1;
       let brake = push < 0 ? -push : 0; if (brake > 1) brake = 1;
-      let hover = 1 - sp / 30; if (hover < 0) hover = 0;
       const si = mode === 'snow' ? 0 : st[i];   // snow has no states; it just falls
-      const base = si === 1 ? 1.35 : si === 2 ? 0.42 : 0.30;
+      let base;
+      if (si === 1) base = 1.35;
+      else if (si === 2) base = 0.42;
+      else {
+        // Settled: wings HELD, with a short flap now and then. This used to be a
+        // flat 0.30 of stroke depth at 7.2 Hz — a beat every 8 frames, on every
+        // bird, forever, which is not a roost but a shimmer. Each bird now has its
+        // own gap and its own offset, so the mark never beats in unison, and the
+        // smoothing on ef turns each burst into a swell rather than a switch.
+        const per = p.restEvery + (this.op[i] - 0.775) * 10;   // 3.1…7.6 s, personal
+        const u = t / per + this.ph[i] * 0.159;                // ph/TAU: a phase offset
+        base = (u - Math.floor(u)) * per < p.restFlap ? 0.72 : 0.04;
+      }
       let drive = base + 0.55 * thrust + 0.30 * brake - 0.42 * fastn * (1 - thrust);
       if (drive > 1) drive = 1; else if (drive < 0) drive = 0;
       ef[i] += (drive - ef[i]) * 0.10;      // ≈0.16 s to settle: gait changes over
       br[i] += (brake - br[i]) * 0.08;      // a few beats, never instantly
       bk[i] += (d / limMax - bk[i]) * 0.12;
-      // Hovering beats FASTER, not deeper — that keeps the mark crisp.
-      fp[i] += (p.beatSlow + beatSpan * ef[i] + 3.2 * hover) * TAU * dt * tempo;
+      fp[i] += (p.beatSlow + beatSpan * ef[i]) * TAU * dt * tempo;
       if (fp[i] > TAU) fp[i] -= TAU;
     }
 

diff --git a/404.html b/404.html
@@ -27,7 +27,6 @@
     <ul class="hero-links" aria-label="Elsewhere">
       <li><a href="/">Home</a></li>
       <li><a href="/#archive">Archive</a></li>
-      <li><a href="/2013/">previous version</a></li>
     </ul>
   </div>
 </main>

diff --git a/DESIGN.md b/DESIGN.md
@@ -148,9 +148,20 @@ twitching tick mark, not a bird.
   pointing backwards: the flare, wings forward and spread) and `bank`. Every transition is
   therefore a blend by construction, and a bird powering out of a glide picks the stroke up
   wherever the wing happened to be. The four gaits you can see in
-  `tools/out/wingbeat.png` — a quick shallow flutter holding station on the mark, a deep
-  full-power beat fleeing the pointer, a held glide out on a lap, and the flare coming
-  home — are all the same six lines of arithmetic at different values.
+  `tools/out/wingbeat.png` — wings held on the mark, a deep full-power beat fleeing the
+  pointer, a held glide out on a lap, and the flare coming home — are all the same six
+  lines of arithmetic at different values.
+- **A roost is not a shimmer.** The first version gave a settled bird a permanent floor of
+  stroke depth and, worse, beat *faster* the slower it flew, on the theory that holding
+  station is work. That came out at 7.2 Hz — a full wingbeat every 8.3 frames, on 183 birds
+  at once, with the tips travelling 1.29 px a frame on a bird whose whole half-span is
+  5.2 px. Uniformly, forever: only 2.5 % of frames had the wings anywhere near still. It
+  read as a flicker, which is exactly what it was. A settled bird now **holds** its wings
+  and gives a short flap every few seconds, on its own personal clock (period from its
+  opacity, offset from its phase, so no two birds beat together and nothing needs a random
+  number). Median tip travel is 0.13 px a frame and 57 % of frames are near-still, while
+  the tail still reaches 3.1 px — held, but not stuffed. `flight.mjs` gates it from both
+  sides, because a bird with its wings nailed on would pass a one-sided check.
 - **Flap-flap-glide falls out.** `drive` subtracts the stretches where a bird is fast and
   asking nothing of the air, so a roamer flaps through the turns of its ring and glides the
   straights without anything telling it to. Thrust alone was not enough to drive this: the
@@ -240,9 +251,11 @@ years, captions, links, footer. `tnum` for numbers; `hanging-punctuation`;
 
 One tall page. Hero is a full viewport (`100dvh`, safe-area aware), text bottom-left, the
 flock owns the rest; the hero text recedes on scroll (scroll-driven animation). Archive
-below: numbered rows (name · medium in mono), 56 px tall, hairline rules. Footer:
-“Handcrafted by Jugal, 2013 → 2026 · previous version”. The arrow fades in the first
-time it scrolls into view.
+below: numbered rows (name · medium in mono), 56 px tall, hairline rules. Footer: the
+dateline “2013 → 2026” and the theme dot, nothing else. The arrow fades in the first
+time it scrolls into view. The 2013 site is still preserved at `/2013/` and its
+screenshots still come from there, but nothing links to it any more — the archive
+sheets are how you see it now.
 
 **One interactive grammar.** Every control answers a pointer in one of two ways, and both
 are written once in `css/style.css` rather than per control:
